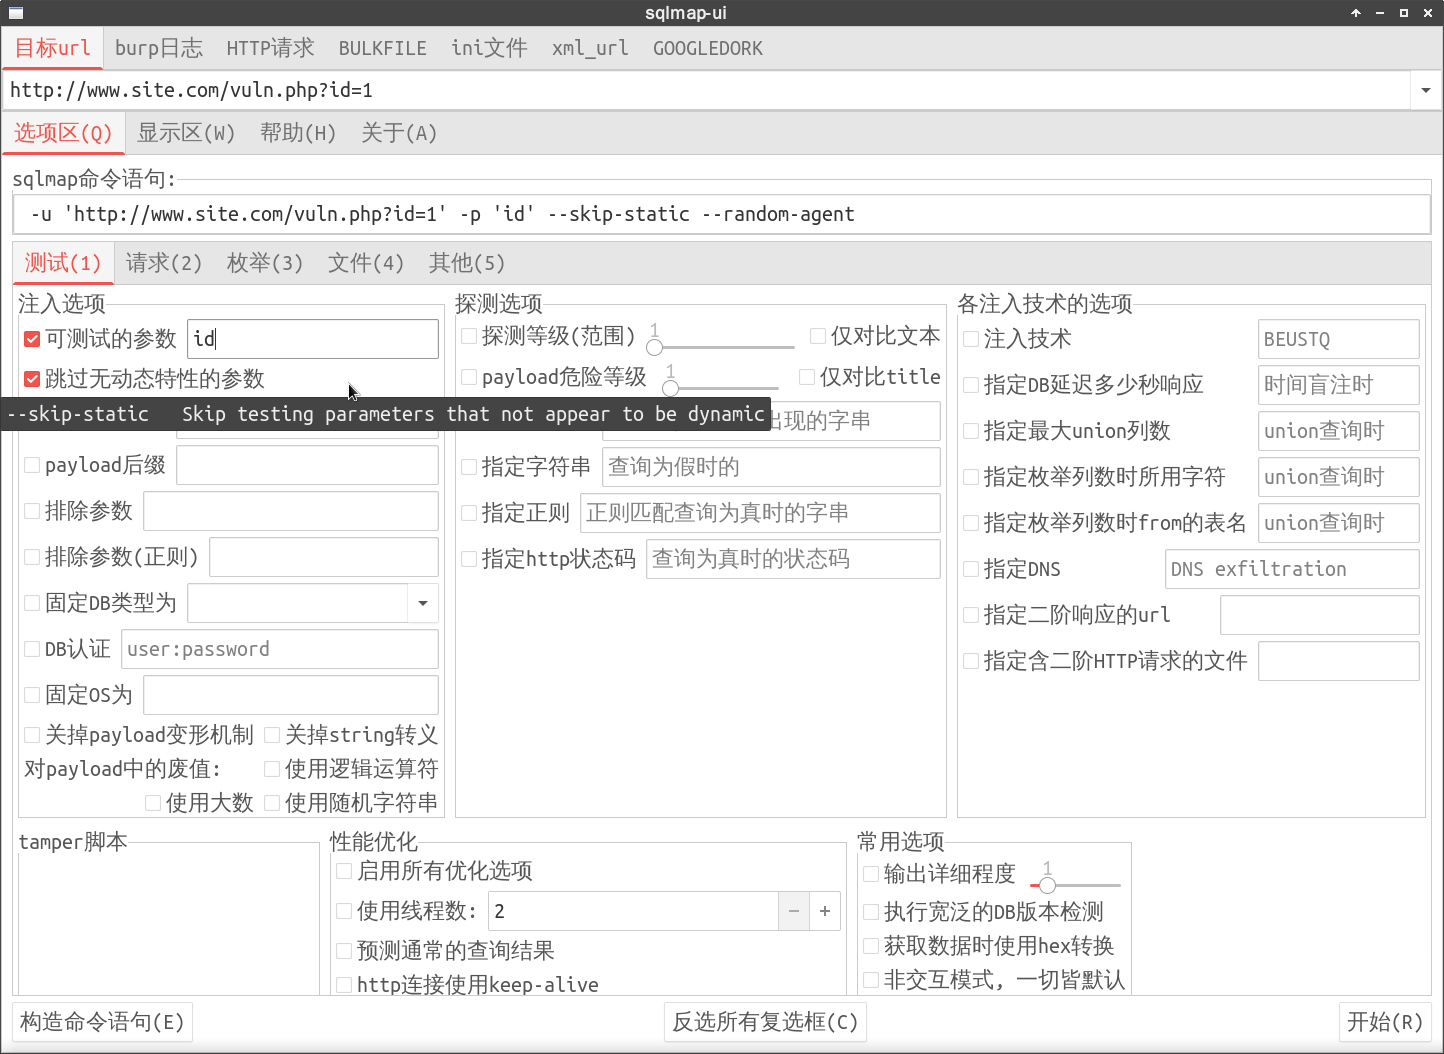
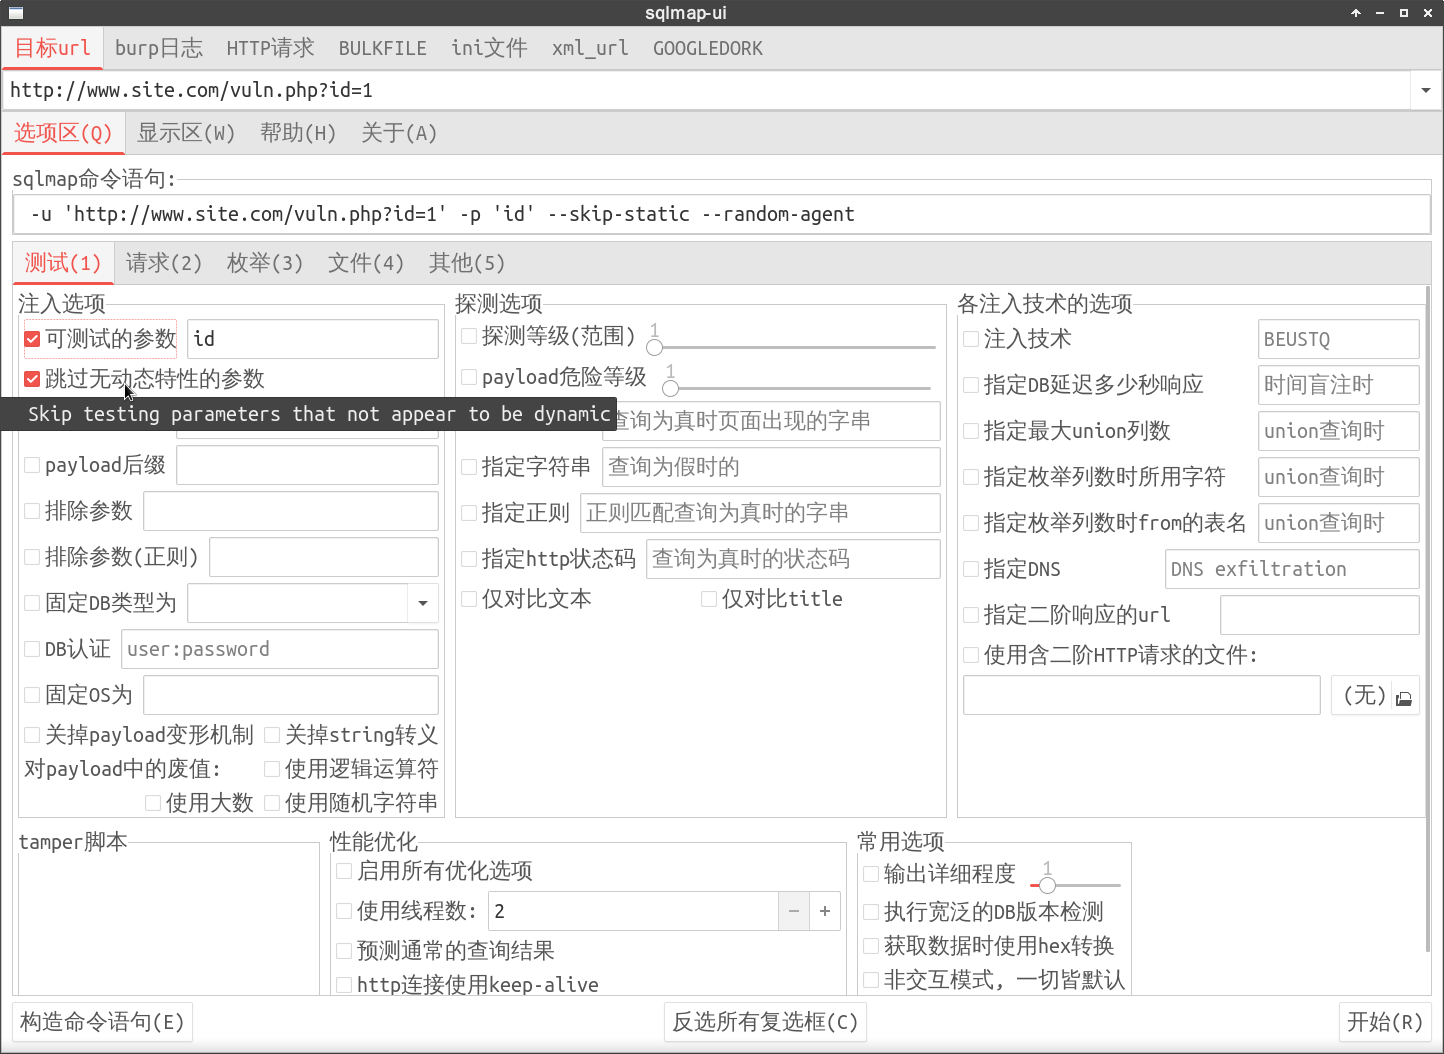
sqlmap-ui0.2.1

diff --git a/sqlmap_ui.py b/sqlmap_ui.py
@@ -4,7 +4,7 @@
 # 2018年 08月 26日 星期日 16:54:41 CST
 # sqlmap gui(gtk+3 by needle wang)
 # required: python3.5+, python3-gi, sqlmap
-# sqlmap requires python 2.6.x and 2.7.x
+# sqlmap requires: python 2.6.x and 2.7.x
 
 # python3.5+
 from pathlib import Path
@@ -377,7 +377,7 @@ class UI_Window(g.Window):
 
     _row3 = g.Box()
     self._page1_general_crawl_ckbtn = g.CheckButton.new_with_label('爬网站(的层级/深度)')
-    self._page1_general_crawl_entry = g.Entry()
+    self._page1_general_crawl_entry = NumberEntry()
 
     self._page1_general_crawl_exclude_ckbtn = g.CheckButton.new_with_label('爬站时排除(正则)页面')
     self._page1_general_crawl_exclude_entry = g.Entry()
@@ -977,7 +977,7 @@ class UI_Window(g.Window):
     _row6 = g.Box()
     self._request_area_tor_ckbtn = g.CheckButton.new_with_label('使用Tor匿名网络')
     self._request_area_tor_port_ckbtn = g.CheckButton.new_with_label('Tor端口')
-    self._request_area_tor_port_entry = g.Entry()
+    self._request_area_tor_port_entry = NumberEntry()
     self._request_area_tor_type_ckbtn = g.CheckButton.new_with_label('Tor代理类型')
     self._request_area_tor_type_entry = g.Entry()
     self._request_area_check_tor_ckbtn = g.CheckButton.new_with_label('检查Tor连接')
@@ -1737,8 +1737,8 @@ class UI_Window(g.Window):
     self.page4.set_border_width(10)
 
     _about_str = '''
-    1. VERSION: 0.2
-       2018年 10月 24日 星期三 22:37:55 CST
+    1. VERSION: 0.2.1
+       2018年 11月 08日 星期四 17:35:43 CST
        required: python3.5+, python3-gi, sqlmap(require: python2.6+)
        作者: needle wang ( needlewang2011@gmail.com )\n
     2. 使用PyGObject(Gtk+3: python3-gi)重写sqm.py\n

diff --git a/README.md b/README.md
@@ -27,10 +27,10 @@ sqlmap ui, using PyGObject(gtk+3)
 7. 将管道流集成到UI里?
 
 #### ABOUT
-1. VERSION: 0.2  
+1. VERSION: 0.2.1  
+   2018年 11月 08日 星期四 17:36:51 CST
+   VERSION: 0.2  
    2018年 10月 24日 星期三 22:37:55 CST  
-   VERSION: 0.1  
-   2018年 09月 03日 星期一 03:34:31 CST  
    作者: needle wang ( needlewang2011@gmail.com )
 2. 使用PyGObject(Gtk+3: python3-gi)重写sqm.py
 3. 感谢[sqm](https://github.com/kxcode/gui-for-sqlmap)的作者: [KINGX](https://github.com/kxcode) (sqm UI 使用的是python2 + tkinter)
